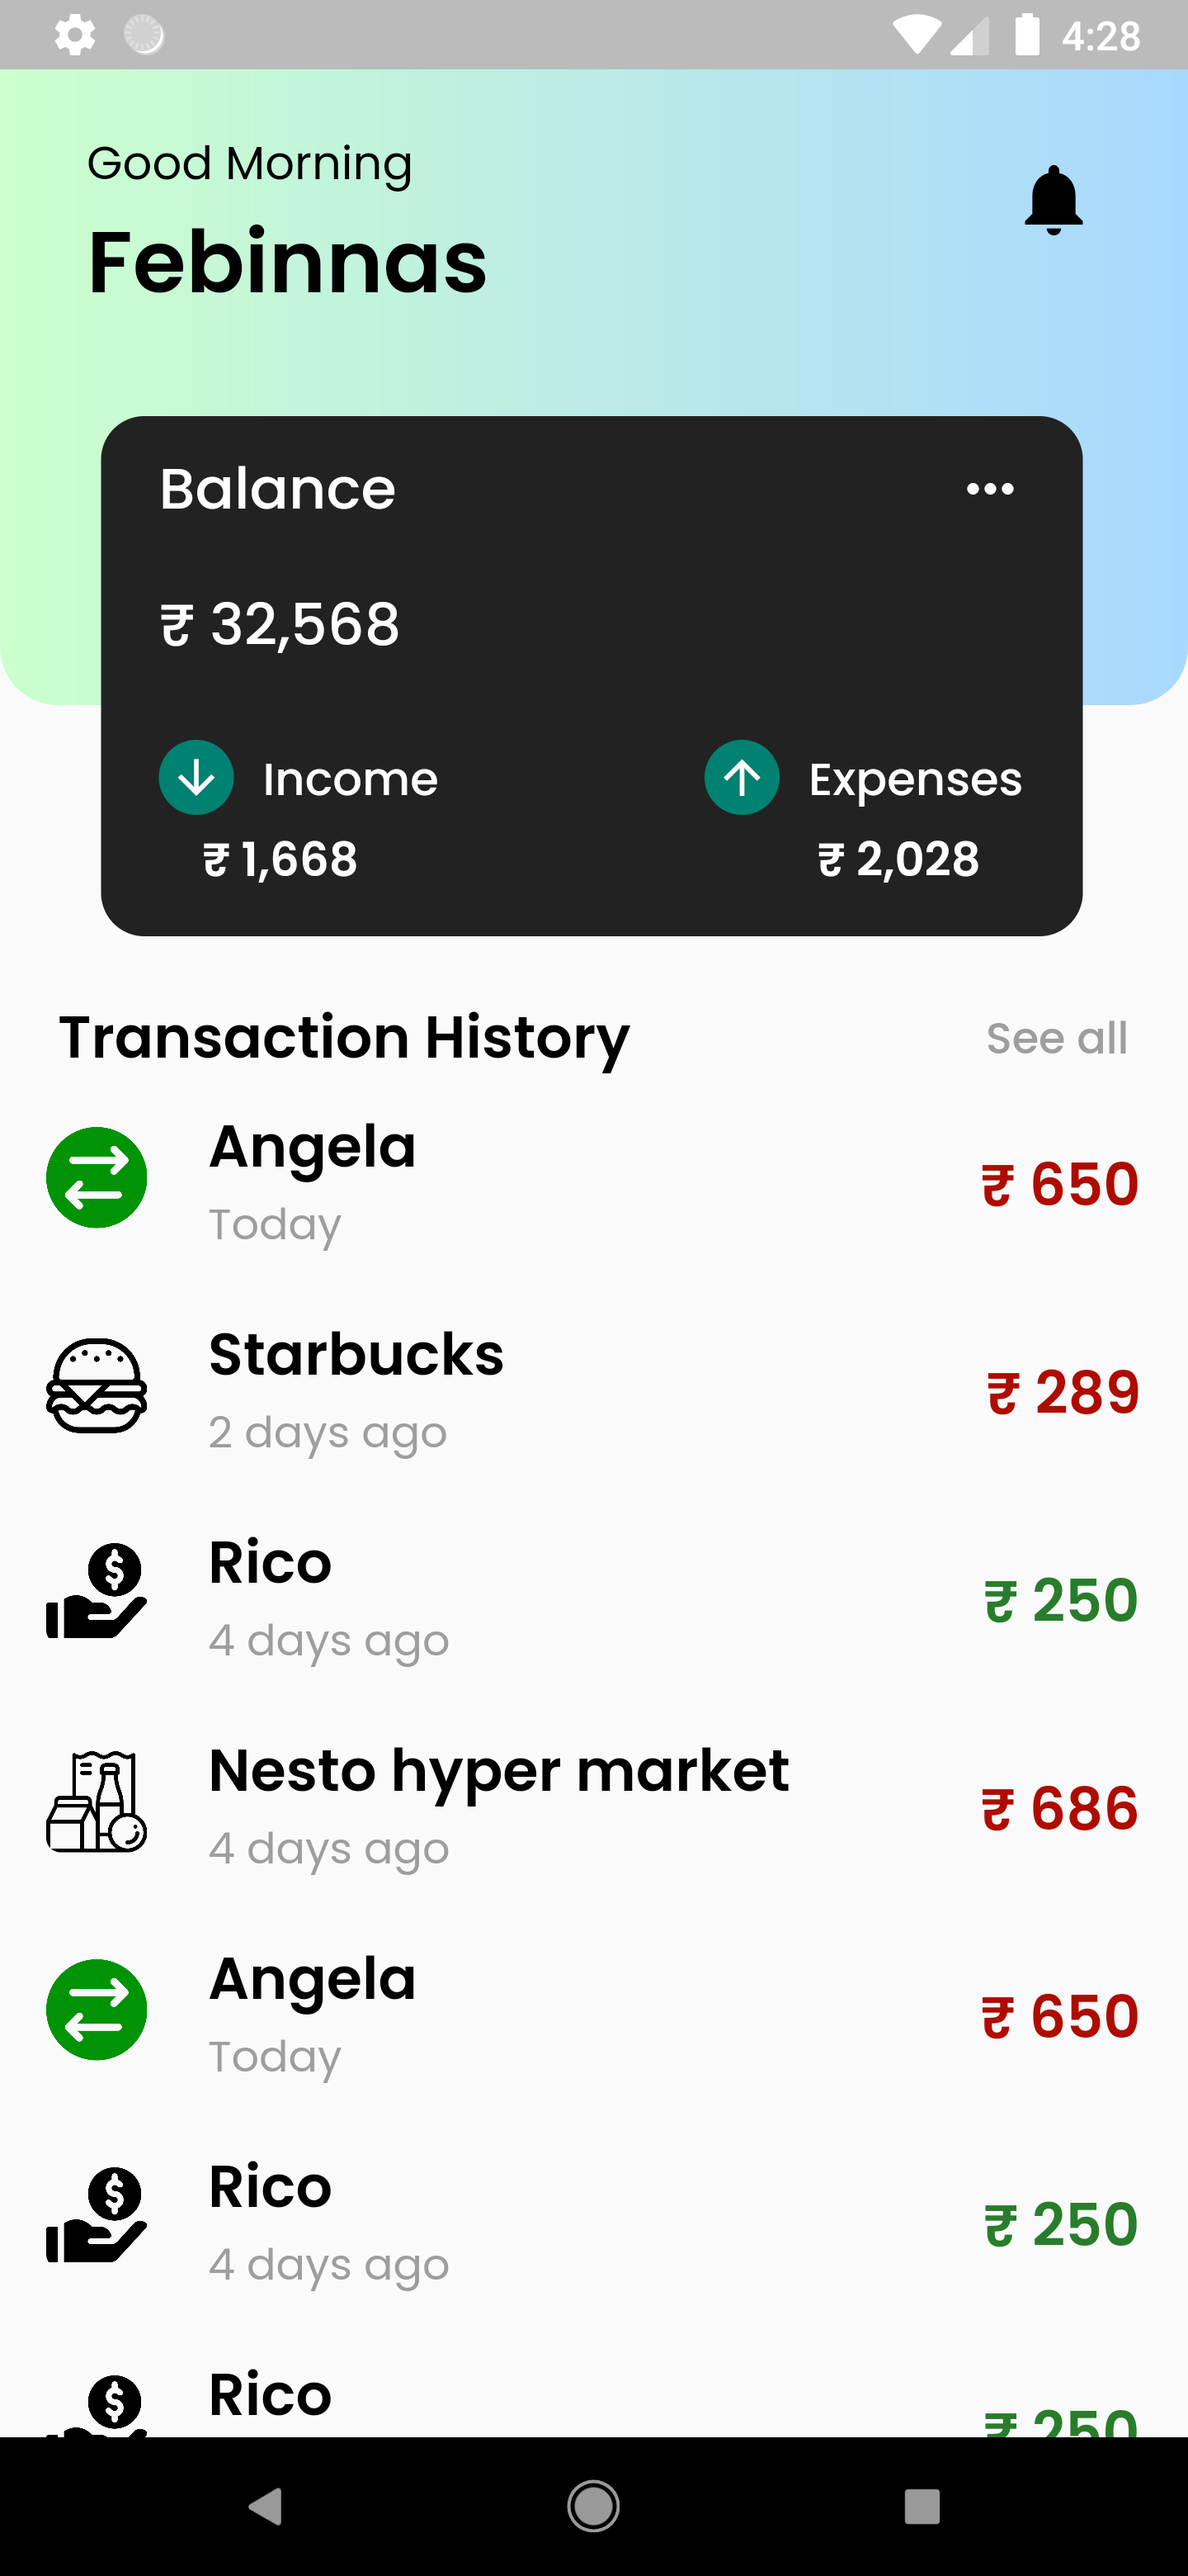
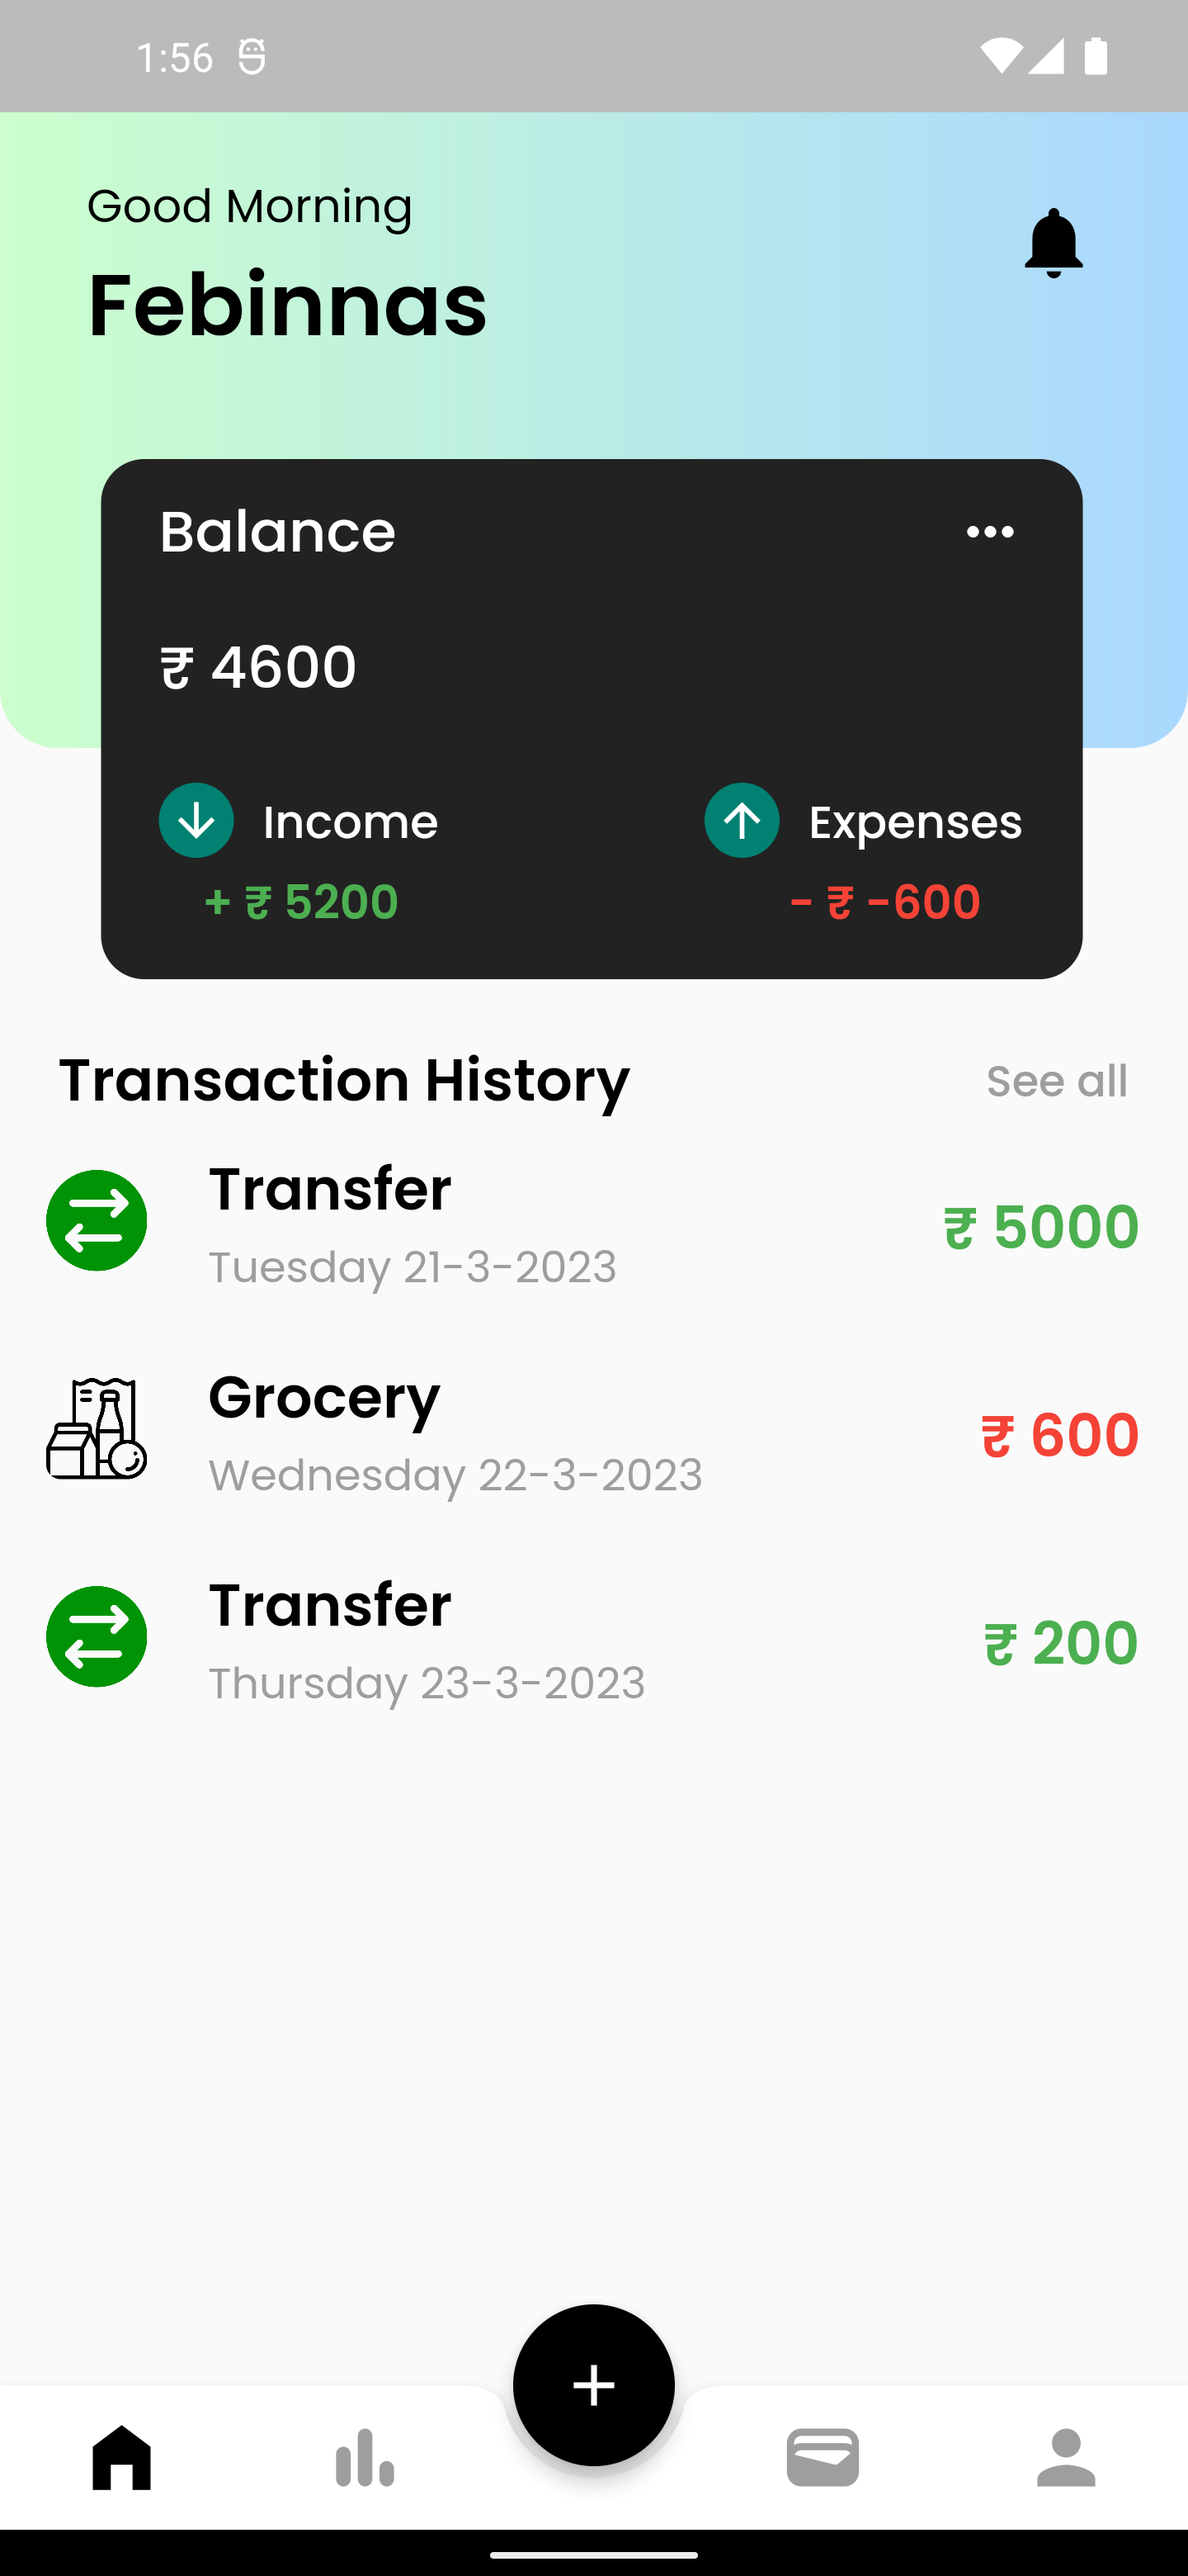
Update 2

diff --git a/lib/widgets/chart.dart b/lib/widgets/chart.dart
@@ -4,8 +4,8 @@ import 'package:flutter/material.dart';
 import 'package:syncfusion_flutter_charts/charts.dart';
 
 class Chart extends StatefulWidget {
-  int index2;
-  Chart({Key? key, required this.index2}) : super(key: key);
+  int indexx;
+  Chart({Key? key, required this.indexx}) : super(key: key);
 
   @override
   State<Chart> createState() => _ChartState();
@@ -17,7 +17,7 @@ class _ChartState extends State<Chart> {
   bool j = true;
   @override
   Widget build(BuildContext context) {
-    switch (widget.index2) {
+    switch (widget.indexx) {
       case 0:
         a = today();
         b = true;
@@ -35,40 +35,43 @@ class _ChartState extends State<Chart> {
         break;
       case 3:
         a = year();
+
         j = false;
         break;
-
       default:
     }
     return Container(
       width: double.infinity,
       height: 300,
-      child: SfCartesianChart(primaryXAxis: CategoryAxis(), series: <
-          SplineSeries<SalesData, String>>[
-        SplineSeries<SalesData, String>(
-          color: const Color(0xFF008172),
-          width: 3,
-          dataSource: <SalesData>[
-            ...List.generate(time(a!, b ? true : false).length, (index) {
-              return SalesData(
-                  j
-                      ? b
-                          ? a![index].dateTime.hour.toString()
-                          : a![index].dateTime.day.toString()
-                      : a![index].dateTime.month.toString(),
-                  b
-                      ? index > 0
-                          ? time(a!, true)[index] + time(a!, true)[index - 1]
-                          : time(a!, true)[index]
-                      : index > 0
-                          ? time(a!, false)[index] + time(a!, false)[index - 1]
-                          : time(a!, false)[index]);
-            })
-          ],
-          xValueMapper: (SalesData sales, _) => sales.year,
-          yValueMapper: (SalesData sales, _) => sales.sales,
-        )
-      ]),
+      child: SfCartesianChart(
+        primaryXAxis: CategoryAxis(),
+        series: <SplineSeries<SalesData, String>>[
+          SplineSeries<SalesData, String>(
+            color: Color.fromARGB(255, 47, 125, 121),
+            width: 3,
+            dataSource: <SalesData>[
+              ...List.generate(time(a!, b ? true : false).length, (index) {
+                return SalesData(
+                    j
+                        ? b
+                            ? a![index].dateTime.hour.toString()
+                            : a![index].dateTime.day.toString()
+                        : a![index].dateTime.month.toString(),
+                    b
+                        ? index > 0
+                            ? time(a!, true)[index] + time(a!, true)[index - 1]
+                            : time(a!, true)[index]
+                        : index > 0
+                            ? time(a!, false)[index] +
+                                time(a!, false)[index - 1]
+                            : time(a!, false)[index]);
+              })
+            ],
+            xValueMapper: (SalesData sales, _) => sales.year,
+            yValueMapper: (SalesData sales, _) => sales.sales,
+          )
+        ],
+      ),
     );
   }
 }

diff --git a/lib/data/utility.dart b/lib/data/utility.dart
@@ -32,7 +32,7 @@ int expenses() {
   List a = [0, 0];
   for (var i = 0; i < history2.length; i++) {
     a.add(
-        history2[i].iande == 'Income' ? 0 : int.parse(history2[i].amount) * 1);
+        history2[i].iande == 'Income' ? 0 : int.parse(history2[i].amount) * -1);
   }
   totals = a.reduce((value, element) => value + element);
   return totals;
@@ -41,7 +41,7 @@ int expenses() {
 List<AddData> today() {
   List<AddData> a = [];
   var history2 = box.values.toList();
-  DateTime date = new DateTime.now();
+  DateTime date = DateTime.now();
   for (var i = 0; i < history2.length; i++) {
     if (history2[i].dateTime.day == date.day) {
       a.add(history2[i]);
@@ -52,7 +52,7 @@ List<AddData> today() {
 
 List<AddData> week() {
   List<AddData> a = [];
-  DateTime date = new DateTime.now();
+  DateTime date = DateTime.now();
   var history2 = box.values.toList();
   for (var i = 0; i < history2.length; i++) {
     if (date.day - 7 <= history2[i].dateTime.day &&
@@ -66,7 +66,7 @@ List<AddData> week() {
 List<AddData> month() {
   List<AddData> a = [];
   var history2 = box.values.toList();
-  DateTime date = new DateTime.now();
+  DateTime date = DateTime.now();
   for (var i = 0; i < history2.length; i++) {
     if (history2[i].dateTime.month == date.month) {
       a.add(history2[i]);
@@ -78,7 +78,7 @@ List<AddData> month() {
 List<AddData> year() {
   List<AddData> a = [];
   var history2 = box.values.toList();
-  DateTime date = new DateTime.now();
+  DateTime date = DateTime.now();
   for (var i = 0; i < history2.length; i++) {
     if (history2[i].dateTime.year == date.year) {
       a.add(history2[i]);
@@ -121,6 +121,6 @@ List time(List<AddData> history2, bool hour) {
     a.clear();
     c = counter;
   }
-
+  print(total);
   return total;
 }

diff --git a/lib/screens/Home.dart b/lib/screens/Home.dart
@@ -295,14 +295,14 @@ class _HomeState extends State<Home> {
                     mainAxisAlignment: MainAxisAlignment.spaceBetween,
                     children: [
                       Text(
-                        "\+ ₹ ${income()}",
+                        "+ ₹ ${income()}",
                         style: GoogleFonts.poppins(
                             fontSize: 16,
                             fontWeight: FontWeight.w600,
                             color: Colors.green),
                       ),
                       Text(
-                        "\- ₹ ${expenses()}",
+                        "- ₹ ${expenses()}",
                         style: GoogleFonts.poppins(
                             fontSize: 16,
                             fontWeight: FontWeight.w600,

diff --git a/lib/screens/Statistics.dart b/lib/screens/Statistics.dart
@@ -3,7 +3,6 @@ import 'package:finance_app/data/utility.dart';
 import 'package:finance_app/widgets/chart.dart';
 import 'package:flutter/material.dart';
 import 'package:google_fonts/google_fonts.dart';
-import 'package:finance_app/data/top.dart';
 
 class Statistics extends StatefulWidget {
   const Statistics({Key? key}) : super(key: key);
@@ -130,7 +129,7 @@ class _StatisticsState extends State<Statistics> {
               ),
               const SizedBox(height: 30),
               Chart(
-                index2: indexColor,
+                indexx: indexColor,
               ),
               const SizedBox(height: 30),
               Padding(
